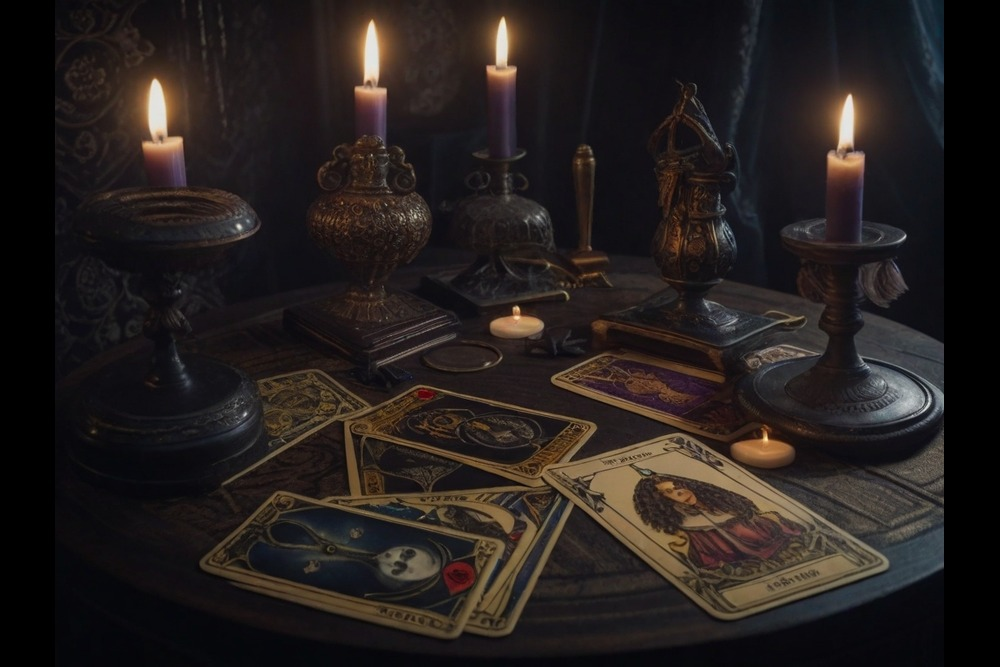
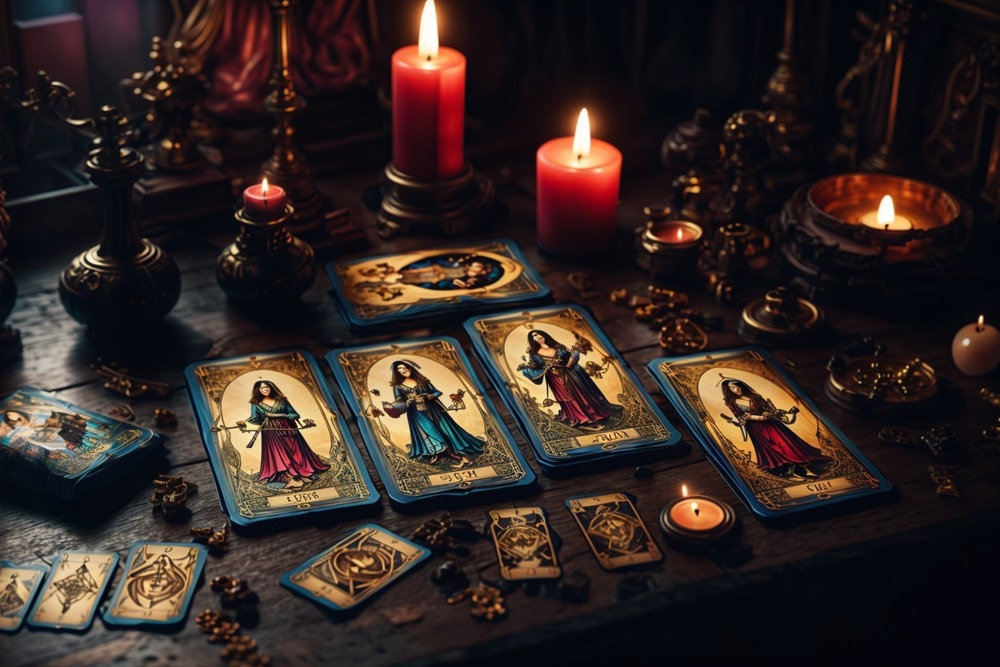
Added and replaced images in the fourth level.

diff --git a/game_py.py b/game_py.py
@@ -22,6 +22,7 @@ level3_img_letter = pygame.image.load('Images\Level3_Letter.jpg')
 level4_img_guard = pygame.image.load('Images\Level4_Guard.jpg')
 level4_img_party1 = pygame.image.load('Images\Level4_Party1.jpg')
 level4_img_party2 = pygame.image.load('Images\Level4_Party2.jpg')
+level4_img_shadow = pygame.image.load('Images\Level4_Shadow.jpg')
 
 
 # Function for splitting the text, to make it fit within the window size and have the letters go to the next line

diff --git a/text_game.py b/text_game.py
@@ -1453,6 +1453,8 @@ def room4():
 
         while player.check4 is False:
 
+            game_file.screen.blit(game_file.level4_img_shadow, (0, 0))
+
             game_file.play_music('Music\level4.mp3', loops=-1)
 
             message = (
